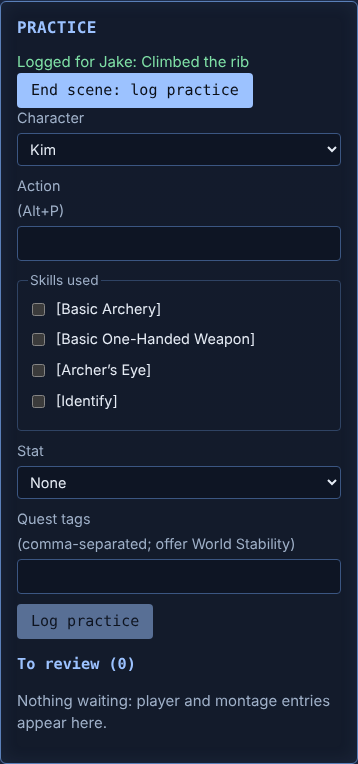
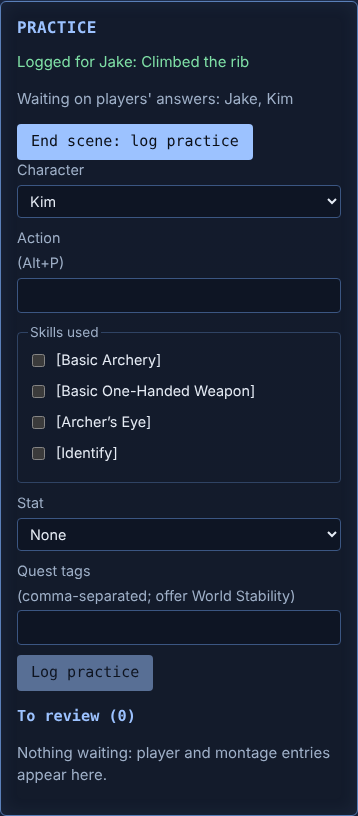
MT.9: end-of-scene prompt on players' screens; answers reach the GM's review; e2e + screenshots; D221
Claude-Session: https://claude.ai/code/session_01DExEbpkMmp6w4CnFUBpTCr

diff --git a/e2e/MT.9.spec.ts b/e2e/MT.9.spec.ts
@@ -1,0 +1,74 @@
+import { mkdirSync } from 'node:fs';
+import path from 'node:path';
+import { expect, test, type Page } from './helpers/test';
+import { startBuiltServer, type RunningServer } from './helpers/server';
+
+// MT.9 (Q63, DESIGN §7): "End scene" also asks each player what they
+// practised; their entries go to the GM's review queue.
+
+const GM_KEY = 'e2e-gm-key-mt9-0123456789abcdef09';
+const shots = path.resolve(import.meta.dirname, '../docs/screens/MT.9');
+let server: RunningServer;
+
+test.beforeEach(async () => {
+  mkdirSync(shots, { recursive: true });
+  server = await startBuiltServer({ GM_KEY });
+});
+
+test.afterEach(async () => {
+  await server.stop();
+});
+
+function watchErrors(page: Page) {
+  const errors: string[] = [];
+  page.on('console', (msg) => {
+    if (msg.type() === 'error') errors.push(msg.text());
+  });
+  page.on('pageerror', (err) => errors.push(err.message));
+  return errors;
+}
+
+test('End scene asks each player; their answer reaches the GM review', async ({ browser }) => {
+  test.setTimeout(90_000);
+  const gm = await browser.newPage({ viewport: { width: 1366, height: 768 } });
+  const errors = watchErrors(gm);
+  await gm.goto(`${server.url}/gm#key=${GM_KEY}`);
+  await gm.getByLabel('Campaign name').fill('Whale');
+  await gm.getByRole('button', { name: 'Create campaign' }).click();
+  const create = gm.locator('form[aria-labelledby="new-character"]');
+  for (const name of ['Jake', 'Kim']) {
+    await create.getByLabel('Name', { exact: true }).fill(name);
+    await create.getByRole('button', { name: 'Create character' }).click();
+    await expect(gm.getByRole('heading', { level: 3, name, exact: true })).toBeVisible();
+  }
+  const page = await browser.newPage({ viewport: { width: 390, height: 844 } });
+  const pageErrors = watchErrors(page);
+  await page.goto(server.url);
+  await page.getByRole('link', { name: /Jake/ }).click();
+  await expect(page.getByTestId('connection')).toHaveText('Connected');
+  await expect(page.getByTestId('player-scene-prompt')).toHaveCount(0);
+
+  const win = gm.locator('section[aria-labelledby="practice-capture-heading"]');
+  await win.getByRole('button', { name: 'End scene: log practice' }).click();
+  await expect(win.getByTestId('scene-waiting')).toContainText('Jake, Kim');
+
+  const prompt = page.getByTestId('player-scene-prompt');
+  await expect(prompt).toContainText('[End of scene] What did you practise?');
+  await prompt.scrollIntoViewIfNeeded();
+  await prompt.getByTestId('scene-practice-form-action').fill('Climbed the rib under fire');
+  await prompt.getByRole('checkbox').first().check();
+  await page.screenshot({ path: path.join(shots, 'player-scene-prompt-390x844.png') });
+  await prompt.getByRole('button', { name: 'Send to the GM' }).click();
+  await expect(page.getByTestId('practice-notice')).toHaveText(
+    'Practice sent to the GM for review.',
+  );
+  await expect(prompt).toHaveCount(0);
+  await expect(win.getByTestId('scene-waiting')).toHaveText("Waiting on players' answers: Kim");
+  await expect(win).toContainText('To review (1)');
+  await expect(win).toContainText('Climbed the rib under fire');
+  await win.evaluate((el) => el.scrollIntoView({ block: 'start' }));
+  await gm.screenshot({ path: path.join(shots, 'gm-scene-waiting-1366x768.png') });
+
+  expect(pageErrors).toEqual([]);
+  expect(errors).toEqual([]);
+});

diff --git a/docs/DECISIONS.md b/docs/DECISIONS.md
@@ -243,3 +243,4 @@ Newest at the bottom. Format: ID · date · decision · why. D-numbers are writt
 - D218 · 2026-10-25 · MT.7 review: the GM's merge override also passes the grade ceiling (never a reserved rarity or past the ladder, which has no rarity to give); the profession override replaces a held profession or re-grants the same one at the class level; refusals that guard the log's meaning (rules list ids and order) or Luke's own rule (XP overflow, Q49) stay without an override and say why; the refusal scanner reads literal, ternary, `…Problem`/`itemOutOfReach`/`overLimit` returns and error results, and a test fails on a variable message from anywhere else. · DESIGN §7 and the two guarantees.
 - D219 · 2026-10-26 · MT.8 (Q69): `faction.reveal {factionId, revealed}` records `faction.revealSet`; `Faction.revealed` is optional (absent = hidden), so stored states and snapshots need no schema bump (as MT.6's `display`). Players get `view.factions` = revealed factions in definition order as `{name, standing}` only, never the head count, base region, notes or id; an edit to a revealed faction reaches them live, hiding removes it, undo works. A no-op reveal or hide is refused (listed in GM-OVERRIDES.md). Shown under the quest log beside the region. New golden `faction-reveal.jsonl`. · DESIGN §7: "a revealed faction shows players its name and standing".
 - D220 · 2026-10-26 · Efficiency check (hour 00): D206 reverted under §9.2 (items/run 1.8 → 1.5 while end minute 44.2 → 46.0; guards flat), LOOP §6.3 keeps only "tell a blocking worktree reviewer its SHA". D211 not yet 6 runs old. Auditor's Tier 1 `npm run orient` + PROGRESS cap waits for a later check (this check's one change was the revert); its Tier 2 sweep budget is Q77 (default no change). · Half the target moved the wrong way; the auditor could not separate it from item size.
+- D221 · 2026-10-26 · MT.9 (Q63): the GM's "End scene: log practice" also sends `scene.end` (default: the whole party), recording `scene.ended {sceneId, characterIds}`; state `scenePrompt {id, at, pending}` is optional (absent until the first scene, so no schema bump). Each listed player's Practice window shows "[End of scene] What did you practise?" with the practice form: "Send to the GM" logs a player entry (unreviewed, so it lands in the GM's review queue) and then answers (`scene.answer`, a player command on their own character); "Nothing this scene" answers without an entry. A new scene replaces an open one. Players learn only whether their own answer is due; the GM sees who has not answered. · DESIGN §7: "each player's screen asks what they practised, for the GM to review".
